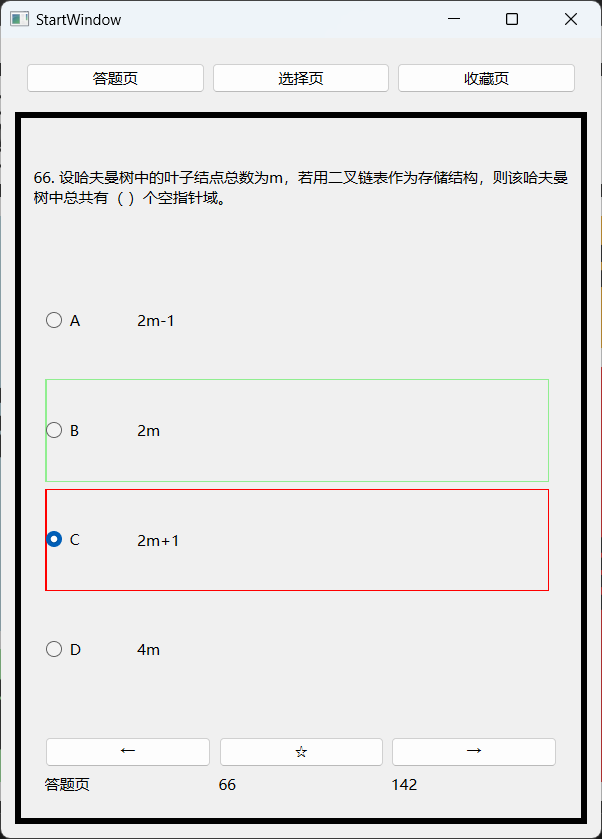
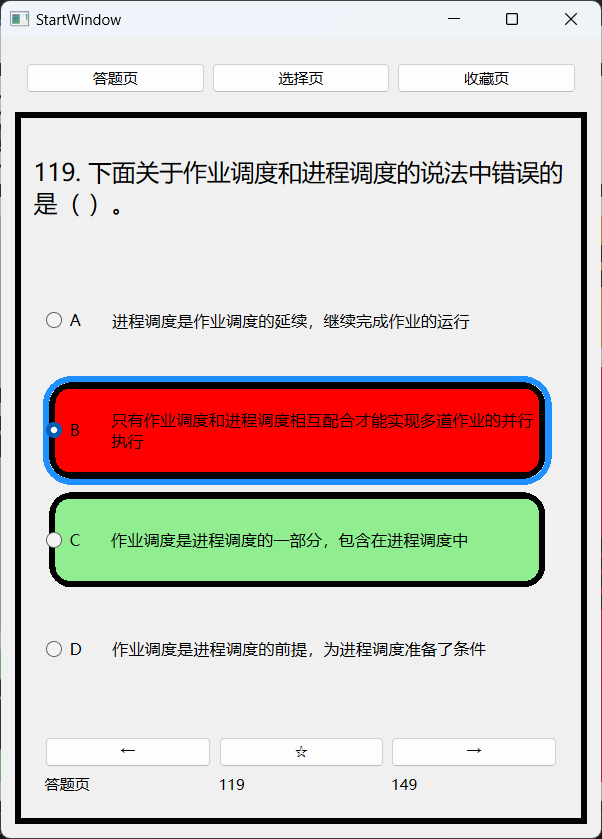
更新图片和说明文档（2023-8-18）

diff --git a/readme.md b/readme.md
@@ -43,15 +43,7 @@
 
 <img src="https://github.com/azh-1415926/CS_Contest/blob/main/image/StartWindow_SelectPage_Loading.png" alt="StartWindow_SelectPage_Loading.png" width="50%" height="50%">
 
-导入题库时的答题界面
-<table>
-<tr>
-<td><img src="https://github.com/azh-1415926/CS_Contest/blob/main/image/StartWindow_QuestionPage.png" alt="StartWindow_QuestionPage.png" border=0></td>
-<td><img src="https://github.com/azh-1415926/CS_Contest/blob/main/image/StartWindow_SelectPage.png" alt="StartWindow_SelectPage.png" border=0></td>
-<td><img src="https://github.com/azh-1415926/CS_Contest/blob/main/image/StartWindow_CollectionPage.png" alt="StartWindow_CollectionPage.png" border=0></td>
-</tr>
-</table>
-新增功能
+新增功能 (2023-8-16)
 
 1. 新增导入和自动存储部分答题进度功能
 2. 增加收藏功能
@@ -66,3 +58,26 @@
         * 若当前题目总数为 0，重置收藏页
 3. 当选择错误选项时会标注出错误选项，答完题最后都会显示正确选项
 4. 答题结束后再次点击正确选项会跳转到下一题
+
+<table>
+<tr>
+<td><img src="https://github.com/azh-1415926/CS_Contest/blob/main/image/StartWindow_QuestionPage_02.png" alt="StartWindow_QuestionPage_02.png" border=0></td>
+<td><img src="https://github.com/azh-1415926/CS_Contest/blob/main/image/StartWindow_SelectPage.png" alt="StartWindow_SelectPage.png" border=0></td>
+<td><img src="https://github.com/azh-1415926/CS_Contest/blob/main/image/StartWindow_CollectionPage_01.png" alt="StartWindow_CollectionPage_01.png" border=0></td>
+</tr>
+</table>
+
+新增调整 (2023-8-18)
+
+1. 调整题目字体大小为 14
+2. 调整选项文本字体为 10
+3. 调整按钮与选项文本的比例为 0:5，避免窗口放大，选项文本与选项间距拉太大
+4. 调整选项文本的间距为 14，避免选框像素过大，遮挡选项
+
+正常比例下答题界面
+
+<img src="https://github.com/azh-1415926/CS_Contest/blob/main/image/StartWindow_QuestionPage.png" alt="StartWindow_QuestionPage.png" width="50%" height="50%">
+
+最大化答题界面
+
+<img src="https://github.com/azh-1415926/CS_Contest/blob/main/image/StartWindow_QuestionPage_03.png" alt="StartWindow_QuestionPage_03.png" width="50%" height="50%">
